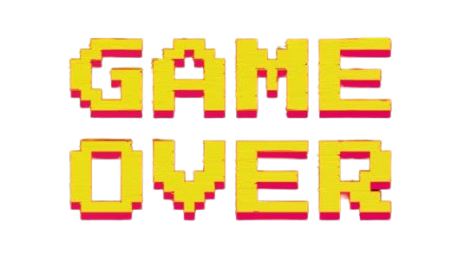
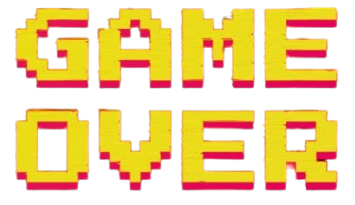
fix[Accueil]: reduction espace entre blocs

diff --git a/css/gameOver.css b/css/gameOver.css
@@ -3,7 +3,7 @@
     display: flex;
     flex-direction: column;
     align-items: center;
-    justify-content: space-between;
+    justify-content: space-around;
 }
 
 .over-content {
